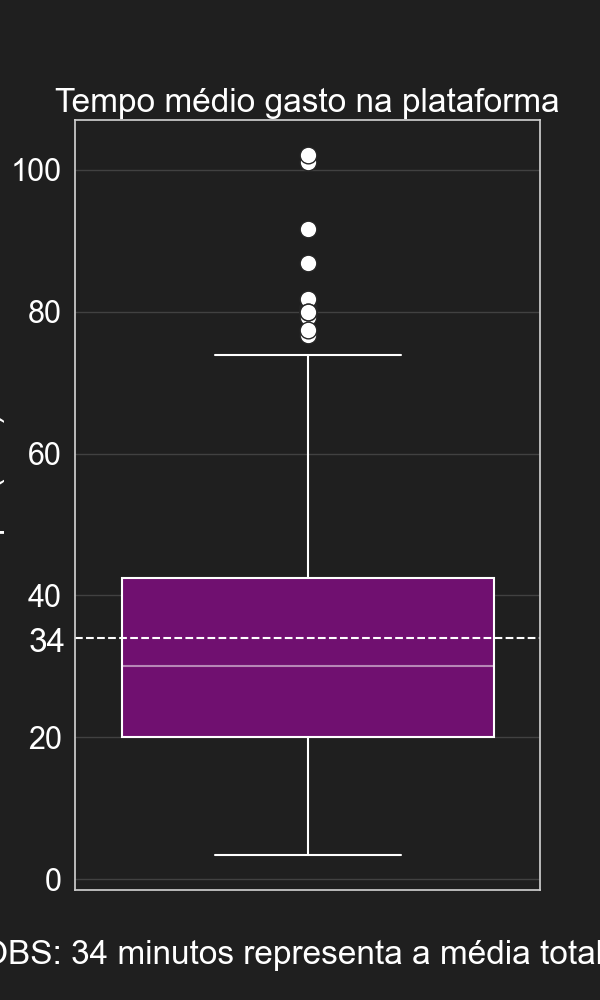
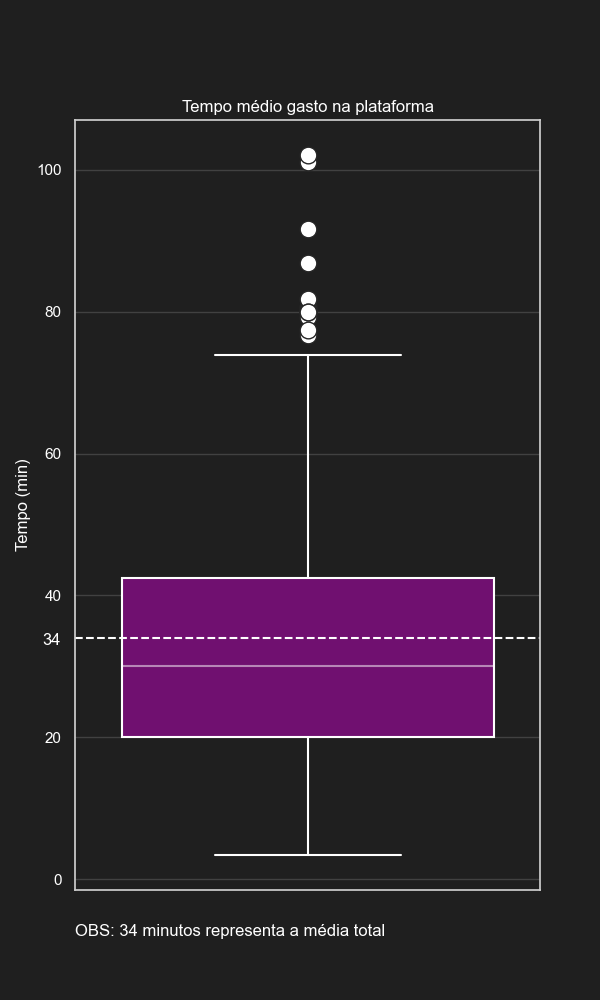
add pagina do kayo top e add anotações

diff --git a/pong/templates/kayo/analise_kayo.html b/pong/templates/kayo/analise_kayo.html
@@ -6,7 +6,7 @@
 
 <body class="container-fluid">
     <!--Barra de navegação para o voltar a página anterior + miniatura da logo-->
-    {% include 'menu/nav.html' with backlink='menu/analises_menu' %}
+    {% include 'menu/nav.html' with backLink='analises_menu' %}
 
 <hr>
     <div class="row justify-content-center">
@@ -124,14 +124,6 @@
           os conjuntos. Dessa forma, concluí-se que pessoas de variadas idades podem e tem se divertido com a plataforma.
         </div>
       </div>
-
-    <br><hr>
-
-    <div class="row justify-content-center">
-        <br>
-        <div class="col-6">
-            *obs: Os códigos dos gráficos estão em funções na view.
-        </div>
     </div>
 
 </body>

diff --git a/pong/templates/menu/notas.html b/pong/templates/menu/notas.html
@@ -15,8 +15,10 @@
             <div class="col-12 col-md-5 menu-item-list align-self-center flex-column">
                 <ul>
                     <li>Os dados utilizados foram gerados artificialmente utilizando Pandas e Numpy (e um pouco do
-                    suor do Kayo, pra escrever 200 nicks diferentes). </li>
+                        suor do Kayo, pra escrever 200 nicks diferentes). </li>
                     <li>O joguinho de Pong agora foi atualizado e agora está 231.7% mais divertido. </li>
+                    <li>É possível fazer login como qualquer um dos usuários e a página de perfil altera
+                        dinamicamente</li>
             </div>
         </div>
     </div>

diff --git a/pong/kayo/views.py b/pong/kayo/views.py
@@ -36,6 +36,10 @@ def tabela2():
 
 
 def tabelas(request, tabela1 = tabela1, tabela2 = tabela2):
+
+    
+    plt.style.use('default')
+    
     tabela1 = tabela1().head(10)
     tabela2 = tabela2().head(20)
     graf1 = grafico1()
@@ -70,7 +74,7 @@ def grafico1(tabela1 = tabela1):
 
     # Alterações estéticas na plotagem
 
-    sns.set_theme(font_scale=2, style="whitegrid",
+    sns.set_theme(font_scale=1, style="whitegrid",
     rc={"figure.figsize":(6, 10),
         "axes.facecolor": "#1f1f1f",
         "figure.facecolor": "#1f1f1f",
@@ -86,8 +90,8 @@ def grafico1(tabela1 = tabela1):
     figura1.set(ylabel="Tempo (min)")
     figura1.set_title("Tempo médio gasto na plataforma")
     figura1.grid(alpha = 0.2, axis="y")
-    figura1.annotate("34", (-0.6, 32), annotation_clip=False)
-    plt.text(-0.7,-12,"OBS: 34 minutos representa a média total")
+    figura1.annotate("34", (-0.57, 33), annotation_clip=False)
+    plt.text(-0.5,-8,"OBS: 34 minutos representa a média total")
 
     arquivo_nome = "kayo1"
     path = r"static/"+arquivo_nome
@@ -133,7 +137,7 @@ def grafico2(tabela2 = tabela2):
 
     # Alterações estéticas na plotagem
 
-    sns.set_theme(font_scale=2, style="whitegrid",
+    sns.set_theme(font_scale=1, style="whitegrid",
     rc={"figure.figsize": (8, 8),
         "axes.facecolor": "#1f1f1f",
         "figure.facecolor": "#1f1f1f",
@@ -149,8 +153,6 @@ def grafico2(tabela2 = tabela2):
     figura2.set(xlabel = "Categorias", ylabel="Tempo (min)")
     figura2.set_title("Tempo médio por rank")
     figura2.grid(alpha = 0.2, axis="y")
-    figura2.annotate("34", (4.6, 33.3), annotation_clip=False)
-    plt.text(-0.52,-8,"OBS: 34 minutos representa a média total")
     
     arquivo_nome = "kayo2"
     path = r"static/"+arquivo_nome
@@ -188,7 +190,7 @@ def grafico3(tabela2 = tabela2):
 
     # Alterações estéticas na plotagem
 
-    sns.set_theme(font_scale=2, style="whitegrid",
+    sns.set_theme(font_scale=1, style="whitegrid",
     rc={"figure.figsize": (8, 10),
         "axes.facecolor": "#1f1f1f",
         "figure.facecolor": "#1f1f1f",
@@ -204,8 +206,6 @@ def grafico3(tabela2 = tabela2):
     figura3.set(xlabel = "Idades", ylabel="Tempo (min)")
     figura3.set_title("Tempo médio por idade")
     figura3.grid(alpha = 0.2, axis="y")
-    figura3.annotate("34", (2.57, 33.5), annotation_clip=False)
-    plt.text(-0.52,-6,"OBS: 34 minutos representa a média total")
     # Alterações estéticas na plotagem
 
     sns.set_theme(font_scale=2, style="whitegrid",
@@ -224,8 +224,6 @@ def grafico3(tabela2 = tabela2):
     figura3.set(xlabel = "Idades", ylabel="Tempo (min)")
     figura3.set_title("Tempo médio por idade")
     figura3.grid(alpha = 0.2, axis="y")
-    figura3.annotate("34", (2.57, 33.5), annotation_clip=False)
-    plt.text(-0.52,-6,"OBS: 34 minutos representa a média total")
     
     arquivo_nome = "kayo3"
     path = r"static/"+arquivo_nome

diff --git a/pong/laguardia/views.py b/pong/laguardia/views.py
@@ -41,6 +41,7 @@ def analise(players, matches):
     matches = pd.merge(matches, players, left_on="p1", right_on="index")
 
     # altera o tema
+    plt.style.use('default')
     mpl.rcParams['axes.facecolor'] = "#00000000"
     mpl.rcParams['figure.facecolor'] = "#00000000"
     mpl.rcParams['text.color'] = "white"
